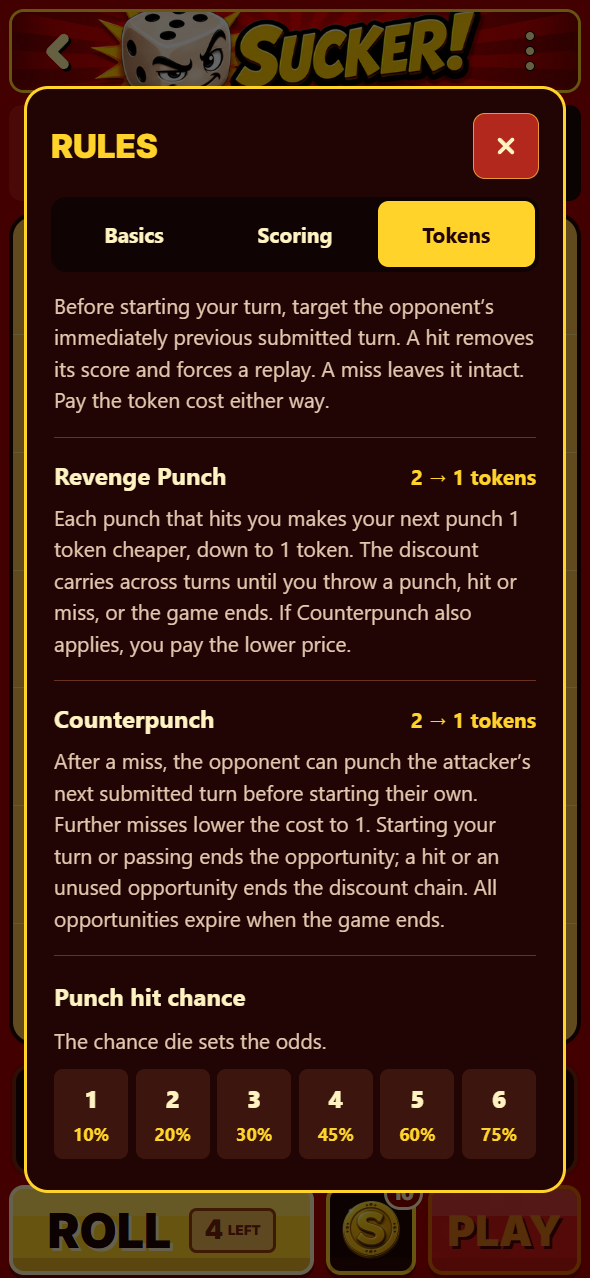
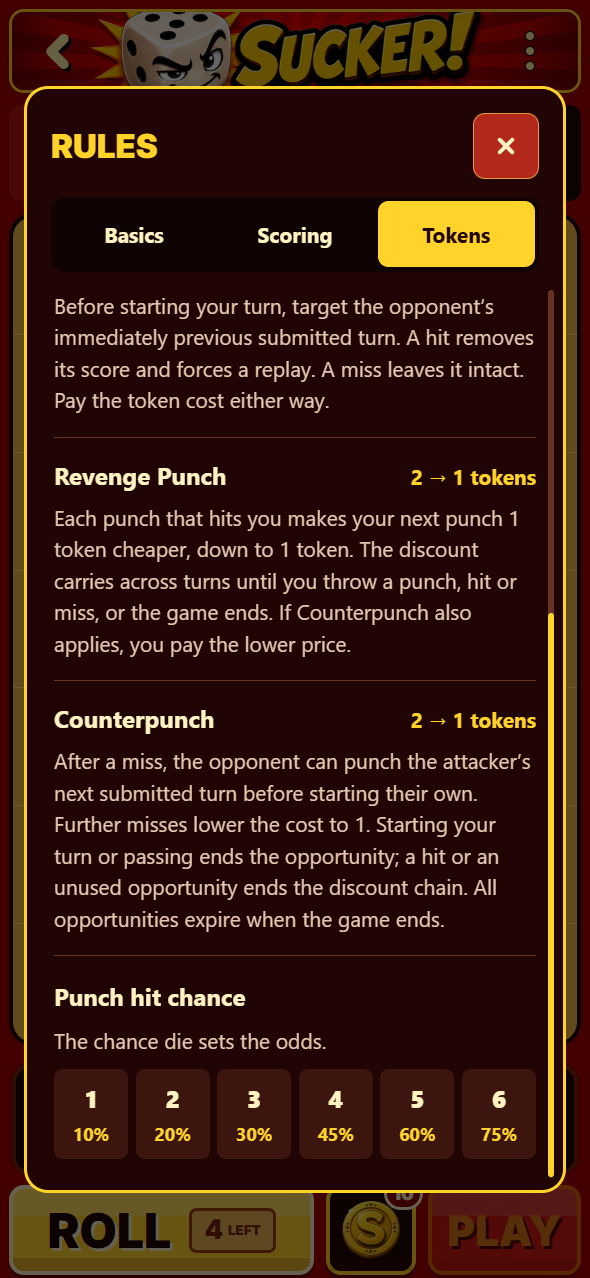
Keep a visible scroll indicator on overflowing rules sections

Changed region(s): [[0.9153, 0.2136, 0.9458, 0.9155]]

diff --git a/src/ui/RulesDialog.tsx b/src/ui/RulesDialog.tsx
@@ -1,4 +1,4 @@
-import { useRef, useState } from 'react';
+import { useRef, useState, type ReactNode } from 'react';
 import { Modal, ScrollView, StyleSheet, Text, View } from 'react-native';
 import { SafeAreaView } from 'react-native-safe-area-context';
 import { suckerPunchChanceByDie, suckerTokenCosts } from '../game';
@@ -75,6 +75,47 @@ const tokens: Rule[] = [
   },
 ];
 
+function RulesContent({ children }: { children: ReactNode }) {
+  const [viewportHeight, setViewportHeight] = useState(0);
+  const [contentHeight, setContentHeight] = useState(0);
+  const [scrollOffset, setScrollOffset] = useState(0);
+  const scrollRange = Math.max(0, contentHeight - viewportHeight);
+  const trackHeight = Math.max(0, viewportHeight - 16);
+  const thumbHeight = Math.min(trackHeight, Math.max(24, (trackHeight * viewportHeight) / Math.max(1, contentHeight)));
+  const progress = scrollRange > 0 ? Math.min(1, Math.max(0, scrollOffset / scrollRange)) : 0;
+
+  return (
+    <View style={styles.scrollContainer}>
+      <ScrollView
+        style={styles.scroll}
+        contentContainerStyle={styles.content}
+        onContentSizeChange={(_width, height) => setContentHeight(height)}
+        onLayout={({ nativeEvent }) => setViewportHeight(nativeEvent.layout.height)}
+        onScroll={({ nativeEvent }) => setScrollOffset(nativeEvent.contentOffset.y)}
+        scrollEventThrottle={16}
+        showsVerticalScrollIndicator={false}
+        testID="rules-content"
+      >
+        {children}
+      </ScrollView>
+      {viewportHeight > 0 && scrollRange > 1 && (
+        <View
+          aria-hidden
+          importantForAccessibility="no-hide-descendants"
+          pointerEvents="none"
+          style={styles.scrollTrack}
+          testID="rules-scroll-indicator"
+        >
+          <View
+            style={[styles.scrollThumb, { height: thumbHeight, top: progress * (trackHeight - thumbHeight) }]}
+            testID="rules-scroll-thumb"
+          />
+        </View>
+      )}
+    </View>
+  );
+}
+
 export function RulesDialog({ onClose }: { onClose: () => void }) {
   const [section, setSection] = useState<Section>('Basics');
   const closeRef = useRef<AccessibilityTargetRef | null>(null);
@@ -125,13 +166,7 @@ export function RulesDialog({ onClose }: { onClose: () => void }) {
               </Pressable>
             ))}
           </View>
-          <ScrollView
-            key={section}
-            style={styles.scroll}
-            contentContainerStyle={styles.content}
-            showsVerticalScrollIndicator={false}
-            testID="rules-content"
-          >
+          <RulesContent key={section}>
             {section === 'Tokens' && <Text style={styles.intro}>Start with 10 tokens.</Text>}
             {rules.map(({ title, body, value }) => (
               <View key={title} style={styles.rule}>
@@ -163,7 +198,7 @@ export function RulesDialog({ onClose }: { onClose: () => void }) {
                 </View>
               </View>
             )}
-          </ScrollView>
+          </RulesContent>
         </View>
       </SafeAreaView>
     </Modal>
@@ -214,7 +249,18 @@ const styles = StyleSheet.create({
   selectedSection: { backgroundColor: '#FFD329' },
   sectionText: { color: '#FFF3C2', fontSize: 14, fontWeight: '700' },
   selectedSectionText: { color: '#210505' },
+  scrollContainer: { flexShrink: 1, minHeight: 0 },
   scroll: { flexShrink: 1 },
+  scrollTrack: {
+    position: 'absolute',
+    top: 8,
+    bottom: 8,
+    right: 6,
+    width: 4,
+    borderRadius: 2,
+    backgroundColor: '#673222',
+  },
+  scrollThumb: { position: 'absolute', width: 4, borderRadius: 2, backgroundColor: '#FFD329' },
   content: { paddingHorizontal: 18, paddingBottom: 20 },
   intro: { color: '#FFF3C2', fontSize: 14, lineHeight: 21, paddingTop: 16 },
   rule: { paddingVertical: 14, gap: 6, borderBottomWidth: StyleSheet.hairlineWidth, borderColor: '#673222' },

diff --git a/e2e/rules-reference.spec.ts b/e2e/rules-reference.spec.ts
@@ -67,8 +67,20 @@ for (const viewport of [
       expect(panel!.y + panel!.height).toBeLessThanOrEqual(viewport.height);
       await expect(page.getByTestId('rules-close')).toBeInViewport();
     }
+    const indicator = page.getByTestId('rules-scroll-indicator');
+    const thumb = page.getByTestId('rules-scroll-thumb');
+    await expect(indicator).toBeVisible();
+    const initialThumb = await thumb.boundingBox();
     await page.getByText('75%', { exact: true }).scrollIntoViewIfNeeded();
     await expect(page.getByText('75%', { exact: true })).toBeInViewport();
+    await expect.poll(async () => (await thumb.boundingBox())!.y).toBeGreaterThan(initialThumb!.y);
+    await page.getByTestId('rules-section-scoring').click();
+    await expect(indicator).toBeVisible();
+    await expect.poll(async () => (await thumb.boundingBox())!.y - (await indicator.boundingBox())!.y).toBe(0);
+    if (viewport.height >= 852) {
+      await page.getByTestId('rules-section-basics').click();
+      await expect(indicator).toHaveCount(0);
+    }
     await page.getByTestId('rules-close').click();
     await expect(page.getByTestId('game-menu-button')).toBeFocused();
   });

diff --git a/docs/review-evidence/rules-reference/README.md b/docs/review-evidence/rules-reference/README.md
@@ -4,6 +4,8 @@ The game menu keeps its red and gold buttons, with separate borders, 8-point spa
 
 Rules is available only from the game menu. It opens a reference with Basics, Scoring, and Tokens sections. It explains controls and factual rules, including Revenge Punch discounts, without recommending scoring or token strategies. There is no onboarding prompt or step-by-step walkthrough. Closing it preserves the current turn and restores focus to the menu button.
 
+A slim gold scroll indicator stays visible whenever a section overflows. It shows the current position, resets when switching sections, and disappears when all content fits. The header and section controls stay fixed while the content scrolls.
+
 Screenshots captured in the integrated browser at a 393 × 852 CSS viewport:
 
 - [Basics](basics.png)
@@ -11,4 +13,4 @@ Screenshots captured in the integrated browser at a 393 × 852 CSS viewport:
 - [Tokens](tokens.png)
 - [Revenge Punch, Counterpunch, and hit odds](punch-odds.png)
 
-Validation after merging Revenge Punch: both typechecks, lint, 141 app tests, and 20 Edge tests pass. Seven focused Chromium cases cover the rules, menu spacing at three phone sizes, New Game cancellation, and restoring prepared Revenge Punches at both discounted prices. Rules checks include held dice and rolls, keyboard focus containment/restoration, scrollable content, and visible close controls at 375 × 667, 393 × 852, and 430 × 932. Only the three header-menu screenshot baselines change relative to main. CI also covers mobile WebKit; local WebKit is unavailable because this host lacks its required shared libraries.
+Validation: typecheck, lint, and four Rules browser cases pass locally. They verify menu spacing, held dice and rolls, keyboard focus containment/restoration, visible close controls, and scroll-indicator visibility, movement, and section resets at 375 × 667, 393 × 852, and 430 × 932. Only the three header-menu screenshot baselines change relative to main. CI runs both typechecks, app and Edge tests, and the full Chromium/mobile WebKit suites, including New Game cancellation and restoring prepared Revenge Punches at both discounted prices. Local WebKit is unavailable because this host lacks its required shared libraries.
